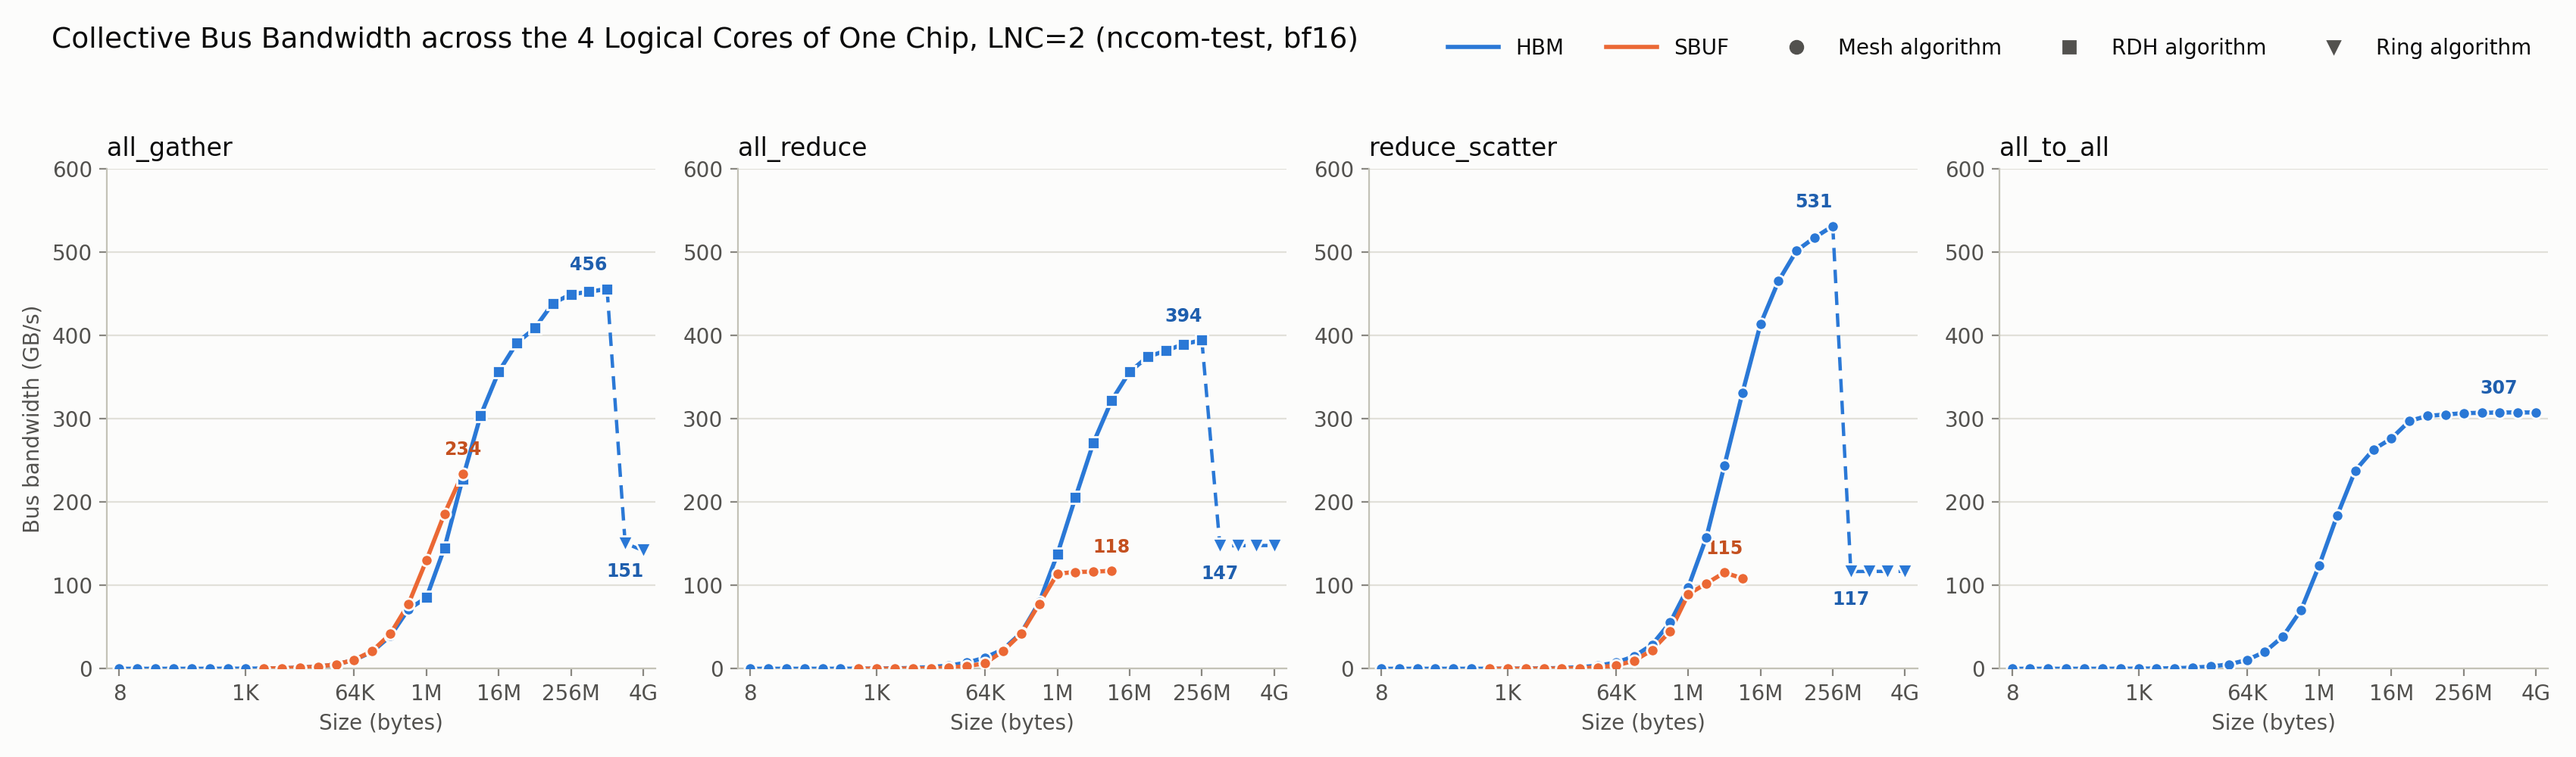
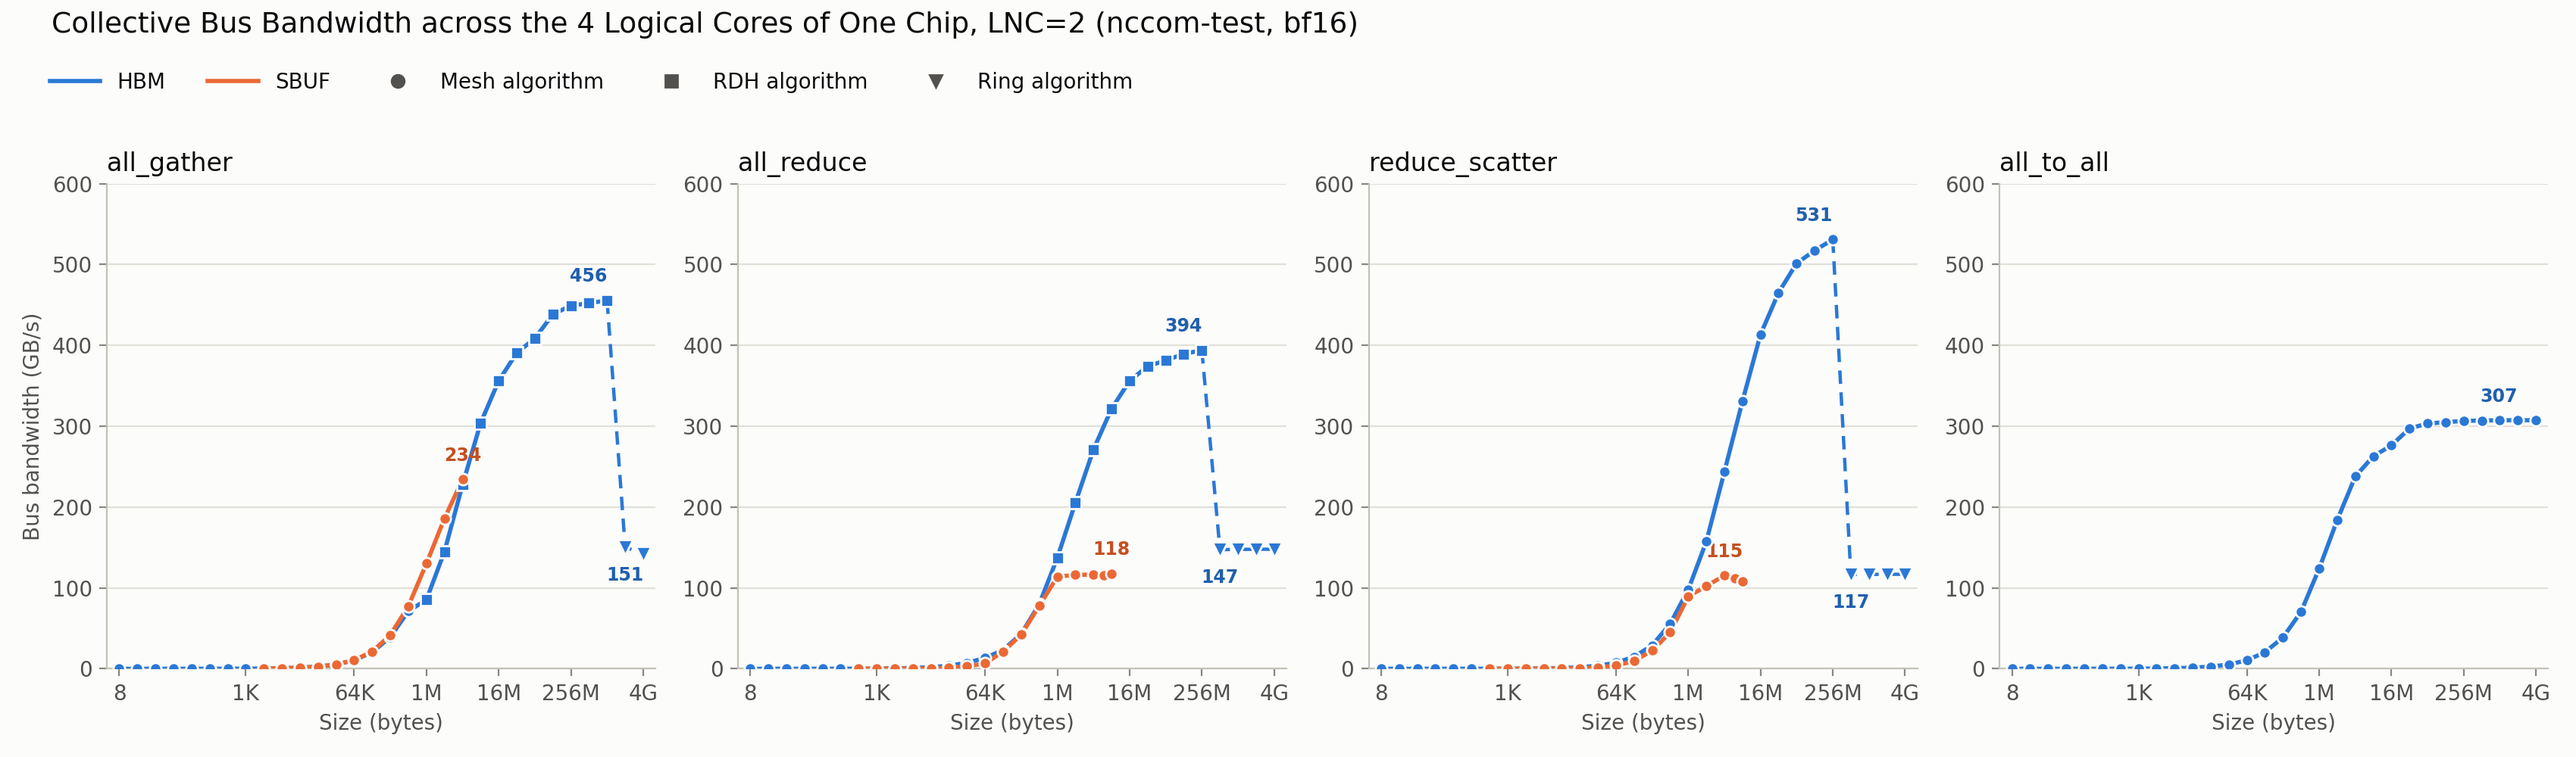
feat(ubenchX): sweep intra-chip all_reduce / reduce_scatter with the RDH channel buffer sized to the message
run_ext.sh rdh runs all_reduce and reduce_scatter on one chip at LNC=2, 1 MiB to
4 GiB, one run per size with NEURON_RT_DBG_INTRA_RDH_CHANNEL_BUFFER_SIZE set to
size / 4, as AWS suggested for keeping RDH / mesh past the switch to Ring.
all_reduce then holds about 390 GB/s busbw to 4 GiB. The intra-chip plot takes
--label for the title, and its legend sits under the title so a long title
does not run into it.

Claude-Session: https://claude.ai/code/session_01C1GQhQw5H99sNq94bx9Afd

diff --git a/ubenchX/trn3_intrachip_cc/plot.py b/ubenchX/trn3_intrachip_cc/plot.py
@@ -1,6 +1,6 @@
 """Plot intra-chip collectives at LNC=2: bus bandwidth vs size, HBM vs SBUF (needs matplotlib).
 
-  python ubenchX/trn3_intrachip_cc/plot.py cc.csv [more.csv ...] out.png
+  python ubenchX/trn3_intrachip_cc/plot.py cc.csv [more.csv ...] out.png [--label "run name"]
 
 nccom-test on one Trainium3 chip at LNC=2, 4 ranks = all 4 logical cores. One panel per op, busbw (GB/s) vs size.
 Color: HBM buffers vs SBUF buffers (--sb2sb, up to 8 MiB, above which SBUF collectives do not run; all_to_all is
@@ -9,7 +9,7 @@ HBM runs to 4 GiB; where the library switches to its Ring algorithm (512 MiB to 
 segment into down-triangles. Later CSVs replace earlier ones per (placement, op, buffer, size). Size convention
 (nccom-test): all_gather = output bytes, reduce_scatter = input bytes, all_reduce / all_to_all = buffer bytes per rank.
 """
-import sys
+import argparse
 
 import matplotlib
 import pandas as pd
@@ -19,7 +19,11 @@ import matplotlib.pyplot as plt
 from matplotlib.lines import Line2D
 from matplotlib.ticker import FixedLocator, NullLocator
 
-*csvs, out = sys.argv[1:]
+ap = argparse.ArgumentParser(description=__doc__, formatter_class=argparse.RawDescriptionHelpFormatter)
+ap.add_argument("files", nargs="+", help="CSVs, then the output PNG")
+ap.add_argument("--label", help="appended to the title, to tell runs apart")
+a = ap.parse_args()
+*csvs, out = a.files
 SURFACE, INK, INK2, MUTED, GRID, AXIS = "#fcfcfb", "#0b0b0b", "#52514e", "#898781", "#e1e0d9", "#c3c2b7"
 COLORS = {"HBM": ("#2a78d6", "#1f5fae"), "SBUF": ("#eb6834", "#c4501f")}
 MARKERS = {"Mesh": "o", "RDH": "s", "Ring": "v"}  # anything else (a future algorithm name) falls back to a diamond
@@ -86,10 +90,11 @@ for ax, op in zip(axes, OPS):
 handles = [Line2D([], [], color=c, lw=2, label=b) for b, (c, _) in COLORS.items()]
 handles += [Line2D([], [], ls="none", marker=m, ms=6, color=INK2, label=f"{a} algorithm")
             for a, m in MARKERS.items() if (shown.algorithm == a).any()]
-fig.legend(handles=handles, loc="upper right", ncol=len(handles), frameon=False, labelcolor=INK, fontsize=10,
-           bbox_to_anchor=(0.99, 0.975), handlelength=2.4)
-fig.suptitle("Collective Bus Bandwidth across the 4 Logical Cores of One Chip, LNC=2 (nccom-test, bf16)", x=0.02,
-             y=0.965, ha="left", color=INK, fontsize=13.5)
-fig.tight_layout(rect=(0, 0, 1, 0.92))
+fig.legend(handles=handles, loc="upper left", ncol=len(handles), frameon=False, labelcolor=INK, fontsize=10,
+           bbox_to_anchor=(0.012, 0.93), handlelength=2.4)
+fig.suptitle("Collective Bus Bandwidth across the 4 Logical Cores of One Chip, LNC=2 (nccom-test, bf16)"
+             + (f": {a.label}" if a.label else ""), x=0.02,
+             y=0.985, ha="left", color=INK, fontsize=13.5)
+fig.tight_layout(rect=(0, 0, 1, 0.9))
 fig.savefig(out, dpi=200, facecolor=SURFACE)
 print("wrote", out)
